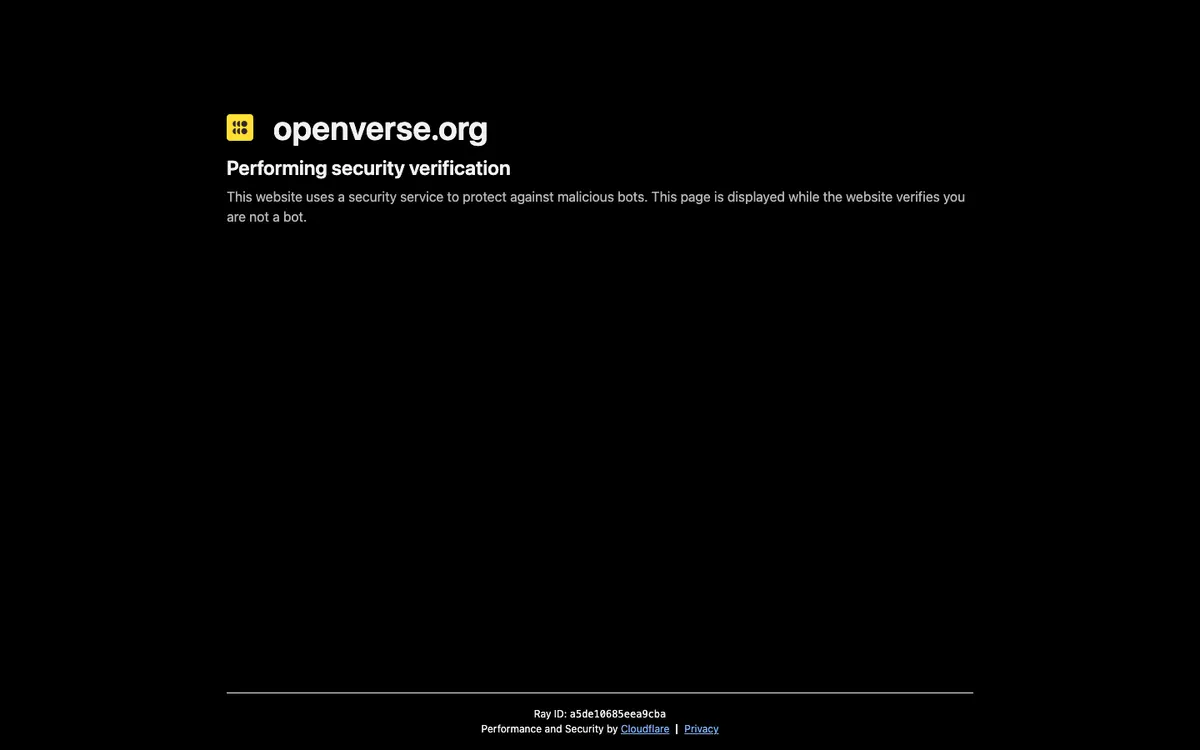
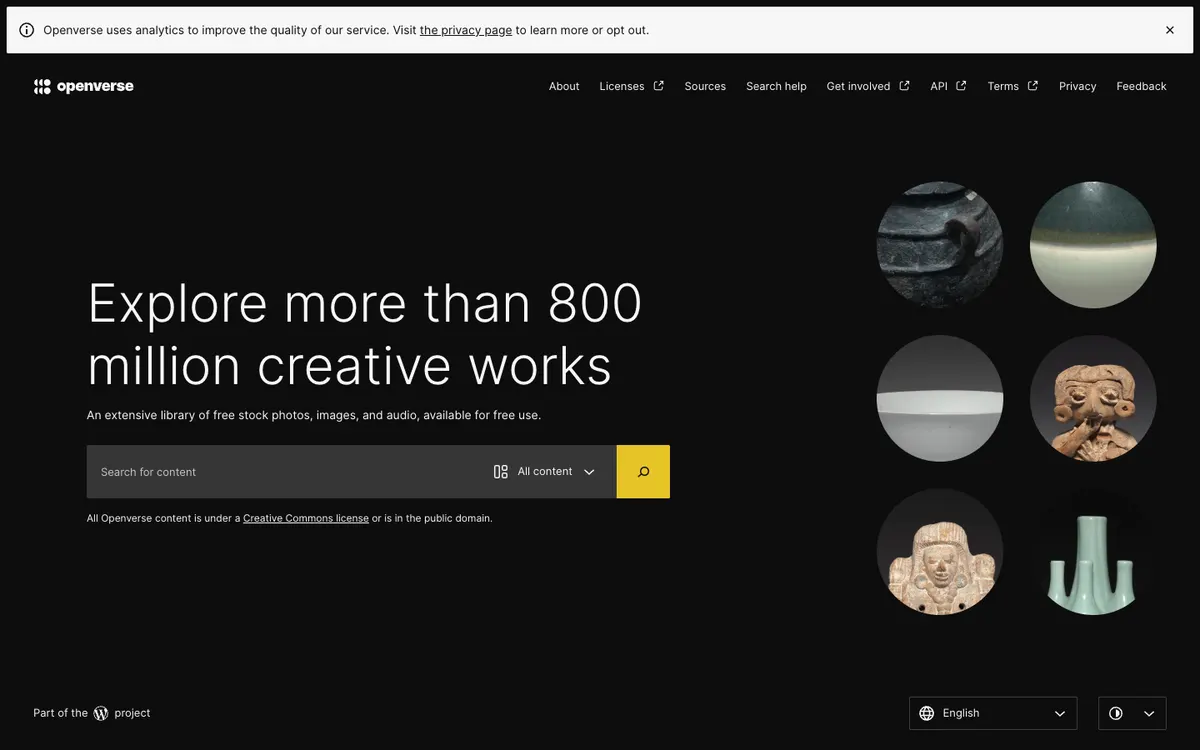
fix(registry): card screenshots that showed bot checks now show the real sites
Card mode now shoots through the same DevTools path as --full, so it rejects
HTTP errors, bot walls and blank pages instead of writing them; the bot-wall
check runs after the settle, when a challenge page has rendered its text.
Recaptured openverse, fontshare and icon-foundry.

diff --git a/scripts/capture.ts b/scripts/capture.ts
@@ -4,6 +4,7 @@
 // --full shoots those unframeable sites as a whole page instead (1280px wide, up to 3 screens tall) into
 // site/public/shots/full/<id>.webp, which the detail panel scrolls through; site/src/lib/fullshots.json lists them
 // with their heights.
+// Both modes refuse to write an error page, bot wall or blank screen; a site that fails keeps its old image and is listed.
 // Run: node --experimental-strip-types scripts/capture.ts [--frames | --full] [id ...]   (needs Chromium or Chrome, or
 // $CHROMIUM, and ImageMagick; --frames only re-checks the framing headers)
 import { execFileSync } from "node:child_process";
@@ -13,7 +14,6 @@ import { join } from "node:path";
 import { libraries } from "../src/registry/index.ts";
 import { resources } from "../src/registry/resources.ts";
 import { withChrome, type Tab } from "./cdp.ts";
-import { chromium } from "./chromium.ts";
 
 const shots = "site/public/shots", marks = "site/public/marks", framesFile = "site/src/lib/unframeable.json";
 mkdirSync(shots, { recursive: true });
@@ -41,44 +41,30 @@ if (args.includes("--full")) {
   process.exit();
 }
 
-for (const s of sites) {
-  if (only.size && !only.has(s.id)) continue;
+const todo = sites.filter((s) => !only.size || only.has(s.id));
+for (const s of todo) {
   // The live preview opens the demo page when there is one.
   if (await frameable(s.frame ?? s.url)) unframeable.delete(s.id);
   else unframeable.add(s.id);
-  if (framesOnly) continue;
-  const png = join(tmpdir(), `tb-${s.id}.png`);
-  // A desktop user agent: bot checks (Vercel, Cloudflare) block "HeadlessChrome". GPU on, or WebGL pages shoot blank.
-  const shoot = (wait: string) => execFileSync(chromium, ["--headless=new", `--user-agent=${UA}`, "--hide-scrollbars", "--force-dark-mode", wait, "--window-size=1440,900", `--screenshot=${png}`, s.url], { stdio: "ignore", timeout: 60_000 });
-  try {
-    // Pages with endless timers never use up a virtual-time budget; for those, shoot at load (may catch a fade-in).
-    try { shoot("--virtual-time-budget=6000"); } catch { shoot("--timeout=15000"); }
-    execFileSync("magick", [png, "-resize", "1200x", "-quality", "78", join(shots, `${s.id}.webp`)]);
-  } catch (e) {
-    console.warn(`shot failed: ${s.id} ${s.url}`, (e as Error).message);
-  }
   const mark = join(marks, `${s.id}.png`);
-  if (s.mark && !existsSync(mark)) {
-    const host = new URL(s.url).hostname;
-    const res = await fetch(`https://www.google.com/s2/favicons?domain=${host}&sz=128`).catch(() => undefined);
-    if (res?.ok) writeFileSync(mark, Buffer.from(await res.arrayBuffer()));
-  }
-  console.log("ok", s.id);
+  if (framesOnly || !s.mark || existsSync(mark)) continue;
+  const host = new URL(s.url).hostname;
+  const res = await fetch(`https://www.google.com/s2/favicons?domain=${host}&sz=128`).catch(() => undefined);
+  if (res?.ok) writeFileSync(mark, Buffer.from(await res.arrayBuffer()));
 }
 writeFileSync(framesFile, JSON.stringify([...unframeable].sort(), null, 1) + "\n");
+// A card that fails keeps its old image; the run lists it.
+if (!framesOnly) report(await shootAll(todo, (tab, s, settle) => pageShot(tab, s.url, settle, join(shots, `${s.id}.webp`), false)));
 
-/** Whole-page shots of the unframeable sites, one at a time; failures get one slower retry, then are listed. */
-async function fullPages() {
-  const full = join(shots, "full");
-  mkdirSync(full, { recursive: true });
-  const todo = sites.filter((s) => unframeable.has(s.id) && (!only.size || only.has(s.id)));
+/** Shoots each site in its own tab, one at a time; failures get one slower retry and are returned with the reason. */
+async function shootAll(todo: typeof sites, shot: (tab: Tab, s: (typeof sites)[number], settle: number) => Promise<void>) {
   const failed = new Map<string, string>();
   await withChrome(async (openTab) => {
     for (const [settle, pause] of [[2500, 1000], [8000, 5000]] as const) {
       for (const s of settle === 2500 ? todo : todo.filter((s) => failed.has(s.id))) {
         const tab = await openTab();
         try {
-          await Promise.race([fullShot(tab, s.frame ?? s.url, settle, join(full, `${s.id}.webp`)), sleep(90_000).then(() => Promise.reject(new Error("timed out")))]);
+          await Promise.race([shot(tab, s, settle), sleep(90_000).then(() => Promise.reject(new Error("timed out")))]);
           failed.delete(s.id);
           console.log("ok", s.id);
         } catch (e) {
@@ -90,18 +76,34 @@ async function fullPages() {
       }
     }
   });
+  return failed;
+}
+
+function report(failed: Map<string, string>) {
+  console.log(`failed ${failed.size}:`);
+  for (const [id, why] of failed) console.log(`  ${id}: ${why}`);
+}
+
+/** Whole-page shots of the unframeable sites into shots/full, and their heights into fullshots.json. */
+async function fullPages() {
+  const full = join(shots, "full");
+  mkdirSync(full, { recursive: true });
+  const failed = await shootAll(sites.filter((s) => unframeable.has(s.id) && (!only.size || only.has(s.id))), (tab, s, settle) => pageShot(tab, s.frame ?? s.url, settle, join(full, `${s.id}.webp`), true));
   // id -> height at 1200px wide, so the panel's <img> reserves its space before it loads.
   const have = Object.fromEntries(readdirSync(full).sort().map((f) => [f.replace(/\.webp$/, ""), Number(execFileSync("magick", ["identify", "-format", "%h", join(full, f)], { encoding: "utf8" }))]).filter(([id]) => unframeable.has(id as string)));
   writeFileSync("site/src/lib/fullshots.json", JSON.stringify(have, null, 1) + "\n");
   const mb = readdirSync(full).reduce((n, f) => n + readFileSync(join(full, f)).length, 0) / 1e6;
-  console.log(`${Object.keys(have).length} full pages, ${mb.toFixed(1)} MB; failed ${failed.size}:`);
-  for (const [id, why] of failed) console.log(`  ${id}: ${why}`);
+  console.log(`${Object.keys(have).length} full pages, ${mb.toFixed(1)} MB`);
+  report(failed);
 }
 
-async function fullShot(tab: Tab, url: string, settle: number, out: string) {
+/** One screenshot to `out`: the first 1440x900 screen as a card, or with `full` the page at 1280px wide, up to MAX_H.
+ * Throws instead of writing when the page is an error, a bot wall or blank, so a bad shot never replaces a good one. */
+async function pageShot(tab: Tab, url: string, settle: number, out: string, full: boolean) {
   const run = async (expression: string) => (await tab.send("Runtime.evaluate", { expression, awaitPromise: true, returnByValue: true })).result?.value;
+  // A desktop user agent: bot checks (Vercel, Cloudflare) block "HeadlessChrome".
   await tab.send("Network.setUserAgentOverride", { userAgent: UA });
-  await tab.send("Emulation.setDeviceMetricsOverride", { width: WIDTH, height: 800, deviceScaleFactor: 1, mobile: false });
+  await tab.send("Emulation.setDeviceMetricsOverride", { width: full ? WIDTH : 1440, height: full ? 800 : 900, deviceScaleFactor: 1, mobile: false });
   await tab.send("Emulation.setEmulatedMedia", { features: [{ name: "prefers-color-scheme", value: "dark" }] });
   await tab.send("Emulation.setScrollbarsHidden", { hidden: true });
   await tab.send("Page.enable");
@@ -111,19 +113,20 @@ async function fullShot(tab: Tab, url: string, settle: number, out: string) {
   await Promise.race([loaded, sleep(30_000)]);
   const status = await run(`performance.getEntriesByType("navigation")[0]?.responseStatus ?? 0`);
   if (status >= 400) throw new Error(`HTTP ${status}`);
-  // Bot walls (Cloudflare, reCAPTCHA, WAFs) often answer 200; their page is not the site.
-  const wall = await run(`document.body?.innerText.slice(0, 3000).match(/verify you are human|security verification|are you a robot|access denied|select all images|just a moment/i)?.[0] ?? ([...document.querySelectorAll("iframe[src*='recaptcha/api2/bframe'], iframe[src*='hcaptcha']")].some((f) => f.offsetWidth > 200) ? "captcha" : "")`);
-  if (wall) throw new Error(`bot wall ("${wall}")`);
   // Scroll down and back so lazy images and scroll-triggered reveals have rendered by the shot.
-  await run(`(async () => { for (let y = 0; y <= ${MAX_H}; y += 400) { scrollTo(0, y); await new Promise((r) => setTimeout(r, 200)); } scrollTo(0, 0); })()`);
+  if (full) await run(`(async () => { for (let y = 0; y <= ${MAX_H}; y += 400) { scrollTo(0, y); await new Promise((r) => setTimeout(r, 200)); } scrollTo(0, 0); })()`);
   await sleep(settle);
-  const height = Math.min(MAX_H, Math.max(800, await run("document.documentElement.scrollHeight")));
-  const { data } = await tab.send("Page.captureScreenshot", { format: "png", captureBeyondViewport: true, clip: { x: 0, y: 0, width: WIDTH, height, scale: 1 } });
-  const png = join(tmpdir(), "tb-full.png"), tmp = join(tmpdir(), "tb-full.webp");
+  // Bot walls (Cloudflare, reCAPTCHA, WAFs) often answer 200; their page is not the site. Checked after the settle,
+  // because a challenge page can render its text after the load event.
+  const wall = await run(`document.body?.innerText.slice(0, 3000).match(/verify you are human|security verification|are you a robot|access denied|you have been blocked|a été bloqué|select all images|just a moment/i)?.[0] ?? ([...document.querySelectorAll("iframe[src*='recaptcha/api2/bframe'], iframe[src*='hcaptcha']")].some((f) => f.offsetWidth > 200) ? "captcha" : "")`);
+  if (wall) throw new Error(`bot wall ("${wall}")`);
+  const height = full ? Math.min(MAX_H, Math.max(800, await run("document.documentElement.scrollHeight"))) : 0;
+  const { data } = await tab.send("Page.captureScreenshot", full ? { format: "png", captureBeyondViewport: true, clip: { x: 0, y: 0, width: WIDTH, height, scale: 1 } } : { format: "png" });
+  const png = join(tmpdir(), "tb-shot.png"), tmp = join(tmpdir(), "tb-shot.webp");
   writeFileSync(png, Buffer.from(data, "base64"));
-  // A blank or single-colour page (still loading, blocked) is worse than the card shot, so it is never kept.
+  // A blank or single-colour page (still loading, blocked) is worse than the old shot, so it is never kept.
   const spread = Number(execFileSync("magick", [png, "-colorspace", "gray", "-format", "%[fx:standard_deviation]", "info:"], { encoding: "utf8" }));
   if (spread < 0.03) throw new Error(`blank (spread ${spread.toFixed(3)})`);
-  execFileSync("magick", [png, "-resize", "1200x", "-quality", "60", "-define", "webp:method=6", tmp]);
+  execFileSync("magick", [png, "-resize", "1200x", ...(full ? ["-quality", "60", "-define", "webp:method=6"] : ["-quality", "78"]), tmp]);
   renameSync(tmp, out);
 }
